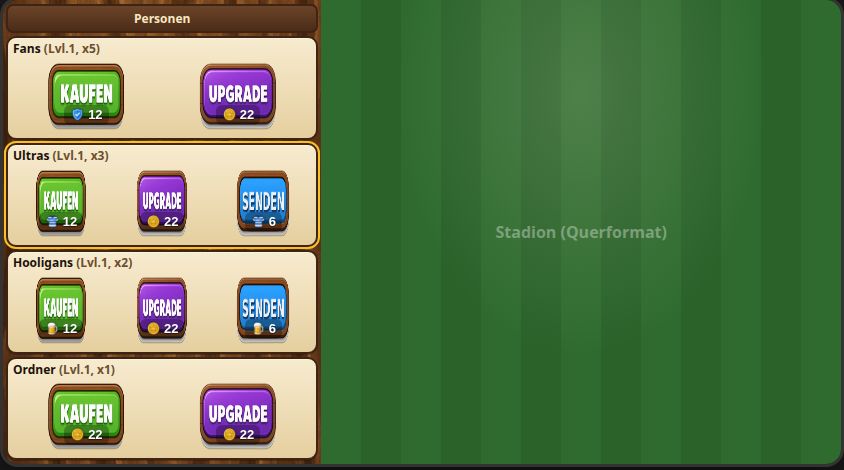
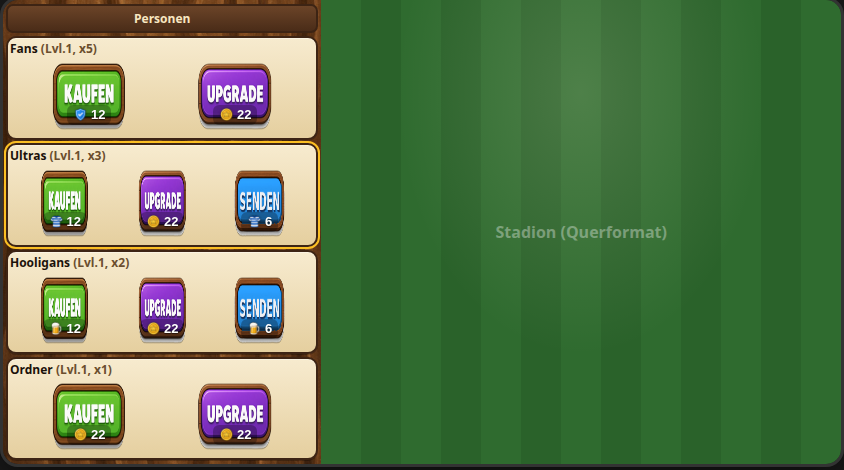
Size person-card A buttons as percent of beige box
Triple: 3%·30%·2%·30%·2%·30%·3%; dual: 3%·46%·2%·46%·3%.
Replaces fixed pixel gaps so buttons scale with card width.

diff --git a/docs/mockups/personen-action-card/index.html b/docs/mockups/personen-action-card/index.html
@@ -93,7 +93,7 @@
     display: flex;
     flex-direction: column;
     gap: 3px;
-    padding: 4px 5px 5px;
+    padding: 4px 2px 5px; /* wenig Seitenpolster — Breite steuern die %-Tracks */
     color: var(--ink);
     overflow: hidden;
   }
@@ -116,16 +116,32 @@
     color: #6b4e2e;
   }
 
+  /*
+   * Prozentuale Aufteilung der beigen Box-Breite:
+   * Triple: 3% | 30% Kauf | 2% | 30% Upgrade | 2% | 30% Send | 3%
+   * Dual:   3% | 46% Kauf | 2% | 46% Upgrade | 3%
+   */
   .actions {
     flex: 1 1 0;
     display: grid;
-    gap: 5px;
     align-content: stretch;
     align-items: stretch;
     min-height: 0;
+    width: 100%;
+    column-gap: 0;
+    row-gap: 0;
   }
-  .actions.dual { grid-template-columns: 1fr 1fr; }
-  .actions.triple { grid-template-columns: 1fr 1fr 1fr; }
+  .actions.triple {
+    grid-template-columns: 3% 30% 2% 30% 2% 30% 3%;
+  }
+  .actions.triple .cost-btn:nth-child(1) { grid-column: 2; }
+  .actions.triple .cost-btn:nth-child(2) { grid-column: 4; }
+  .actions.triple .cost-btn:nth-child(3) { grid-column: 6; }
+  .actions.dual {
+    grid-template-columns: 3% 46% 2% 46% 3%;
+  }
+  .actions.dual .cost-btn:nth-child(1) { grid-column: 2; }
+  .actions.dual .cost-btn:nth-child(2) { grid-column: 4; }
 
   /* Original Icon-UI Buttons (Holzrahmen + gebackenes Label); Kosten live darunter */
   .cost-btn {
@@ -184,13 +200,13 @@
   .zoom h2 { margin: 0 0 8px; font-size: 0.95rem; }
   .zoom .card {
     height: 128px;
-    padding: 8px 12px 10px;
+    padding: 8px 4px 10px;
     gap: 6px;
     border-width: 3px;
     border-radius: 12px;
   }
   .zoom .title { font-size: 16px; }
-  .zoom .actions { gap: 8px; }
+  .zoom .actions { /* gleiche %-Aufteilung wie in der Rail */ }
   .zoom .cost-btn {
     min-height: 72px;
     padding: 0 10px 12px;
@@ -218,6 +234,7 @@
     Keine Personen-Icons → mehr Platz für die <b>Original-Holzbuttons</b> (mit Umrandung + Label).
     Titel wie B: <code>Ultras (Lvl.1, x3)</code>. Reihenfolge: <b>Kauf → Upgrade → Send</b>.
     Kosten live unten im Button; Verb kommt aus dem Button-Asset.
+    Button-Breiten dynamisch: Triple <code>3%·30%·2%·30%·2%·30%·3%</code>, Dual <code>3%·46%·2%·46%·3%</code>.
   </p>
 
   <div class="stage">
@@ -272,7 +289,7 @@
       </article>
       <div class="legend">
         Ohne Personen-Icons · Original-Buttons <code>btn-kaufen / btn-upgrade / btn-senden</code>.<br>
-        Titel wie B · Reihenfolge Kauf → Upgrade → Send · Kosten live unten.
+        Titel wie B · Kauf → Upgrade → Send · Breiten %-anteilig in der beigen Box.
       </div>
     </div>
   </div>

diff --git a/docs/mockups/personen-action-card/README.md b/docs/mockups/personen-action-card/README.md
@@ -23,7 +23,8 @@ Optik an **Holzrahmen-Buttons** und **Menu-Rail-Holz**. Keine „Einheiten gesam
 ```
 
 Reihenfolge: **Kauf → Upgrade → Send**. \* SENDEN nur Ultras + Hooligans.  
-Keine Personen-Icons. Titel wie B.
+Keine Personen-Icons. Titel wie B.  
+Button-Breiten %-anteilig in der beigen Box: Triple `3%·30%·2%·30%·2%·30%·3%`, Dual `3%·46%·2%·46%·3%`.
 
 ## Vorschlag B — Buttons untereinander
 
